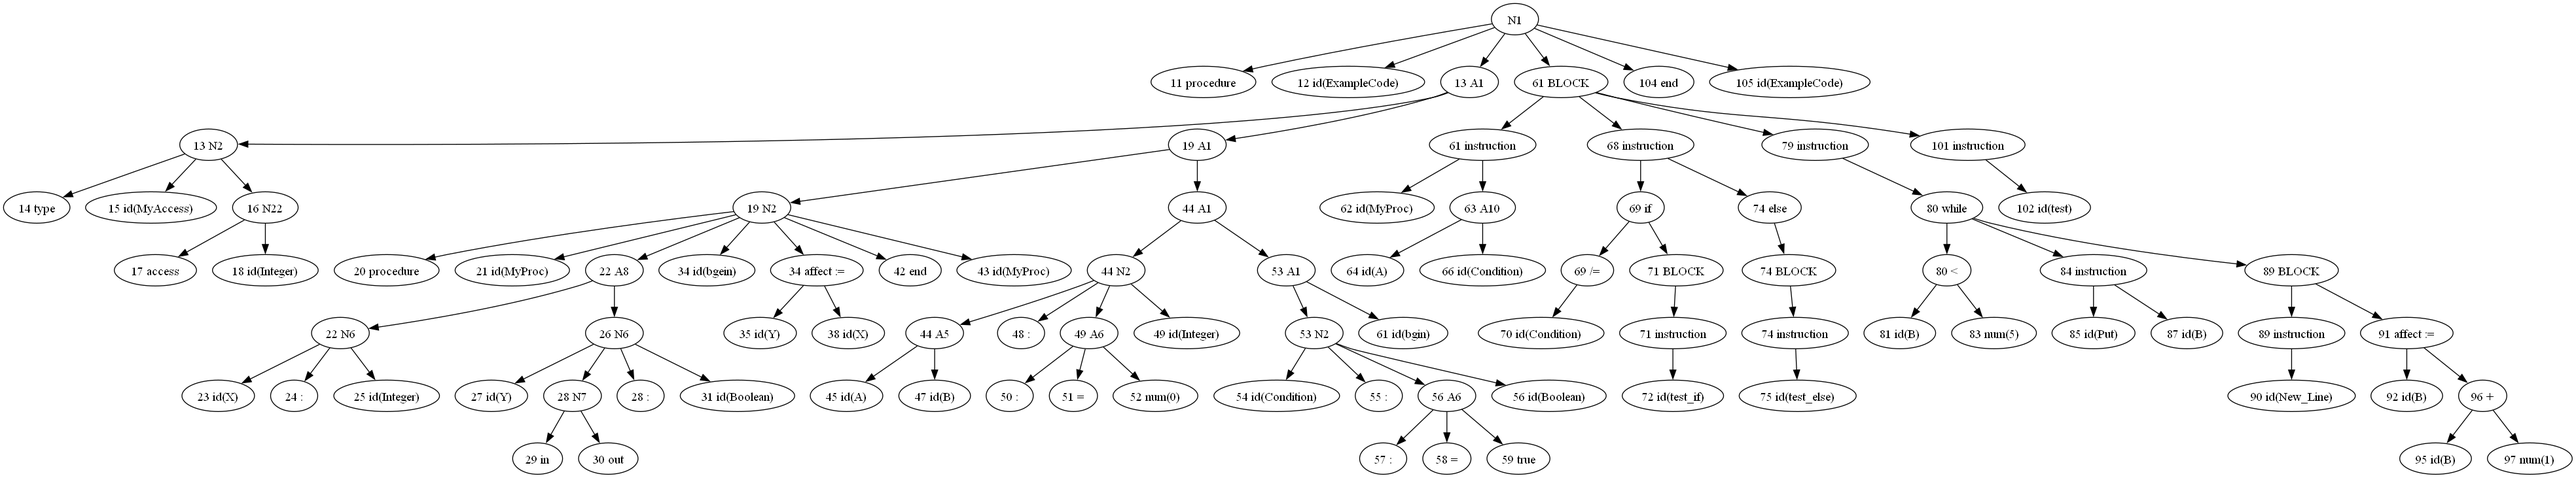
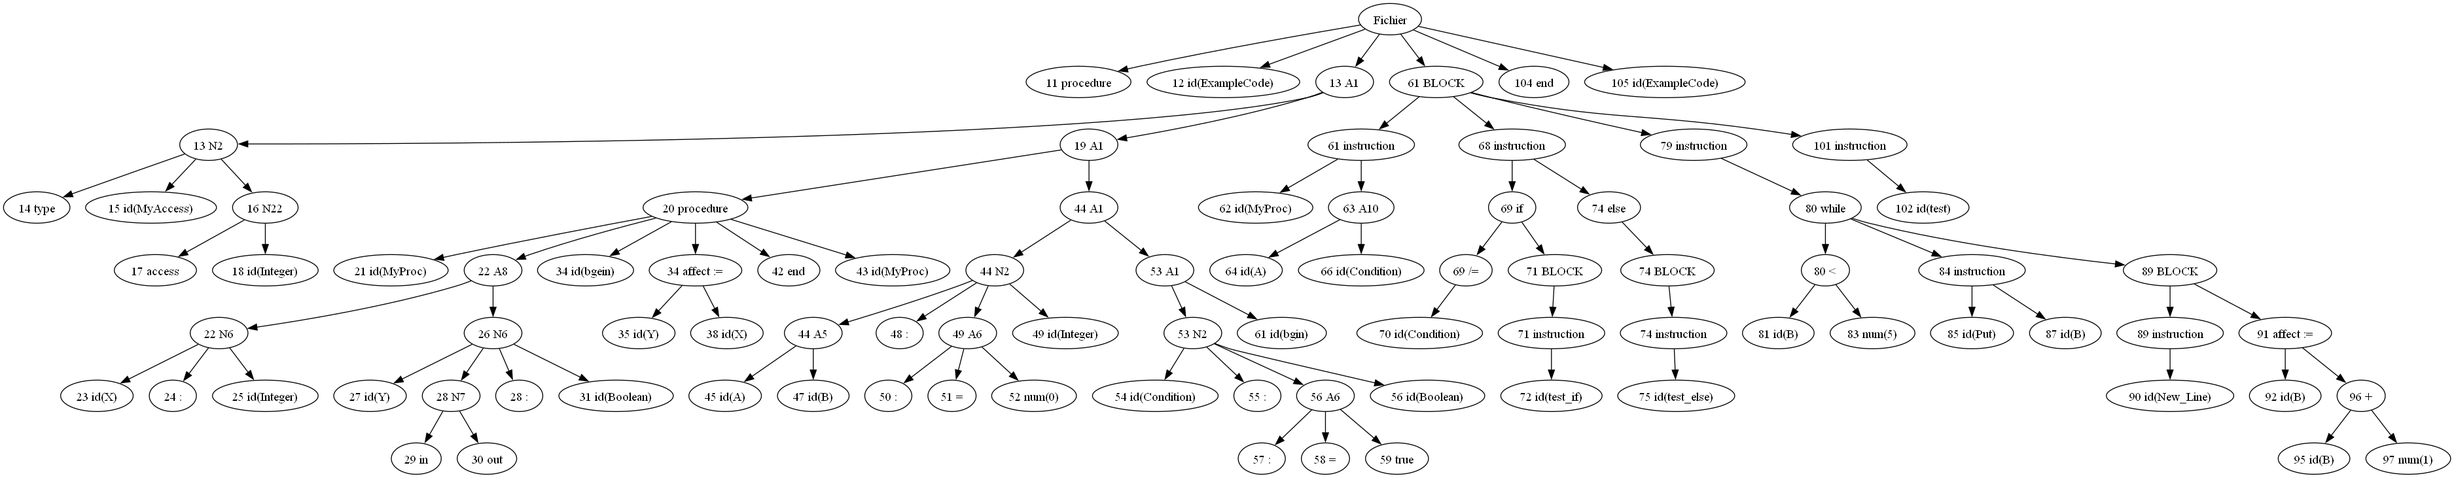
N2 function and procedure

diff --git a/parseur/main_parseur.py b/parseur/main_parseur.py
@@ -230,9 +230,37 @@ def generate_final_AST(root):
         if node.name != "N1":
             cas_difference(node)
 
+    rename_N1(root)
+    rename_all_N2(root)
+
     remove_duplicate_children_working(root)
 
     return root
+
+def rename_N1(root) :
+    for node in PreOrderIter(root):
+        if node.name == "N1":
+            node.name = "Fichier"
+            break
+
+def rename_N2(node) :
+    node_nom = node.name.split(" ")
+    if node_nom[1] == "N2":
+        # on récupère dans un tableau les noms fils
+        if node.children[0].name.split(" ")[1] == "function" :
+            node.name = node.children[0].name
+            node.children[0].parent = None
+        elif node.children[0].name.split(" ")[1] == "procedure" :
+            node.name = node.children[0].name
+            node.children[0].parent = None
+
+def rename_all_N2(root) :
+    for node in PreOrderIter(root):
+        node_nom = node.name.split(" ")
+        if len(node_nom) == 2 :
+            rename_N2(node)
+        #elif len(node_nom)
+
 
 
 def hauteur_arbre(root):
